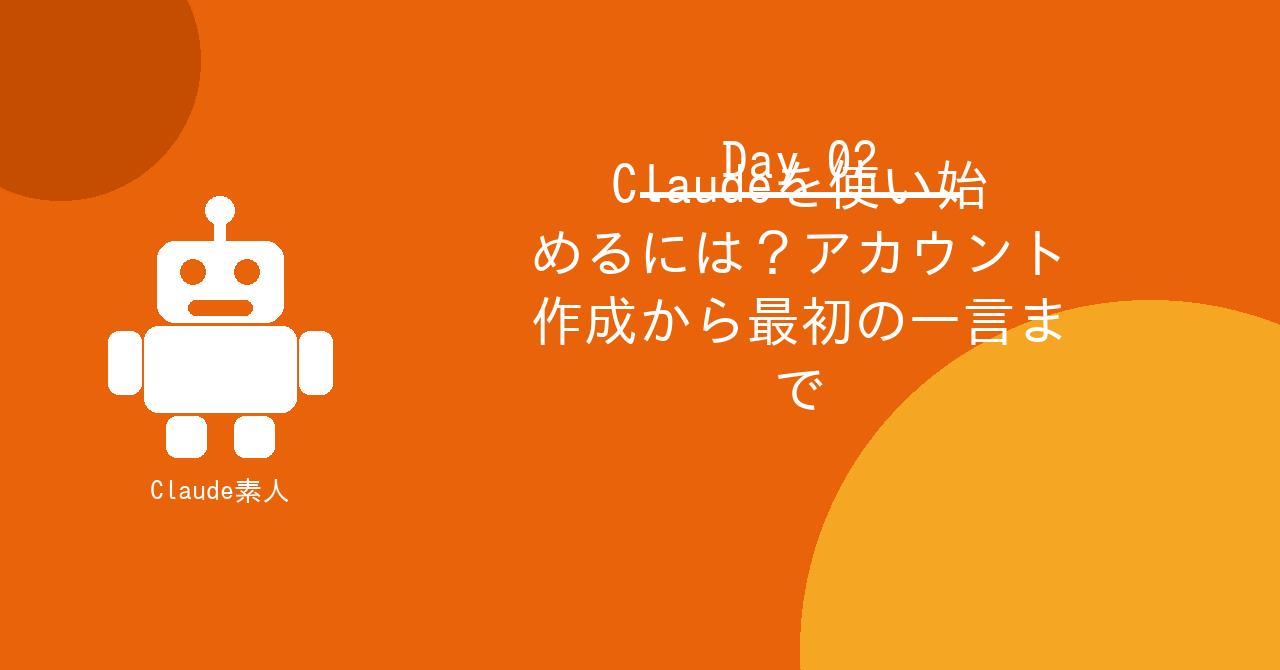
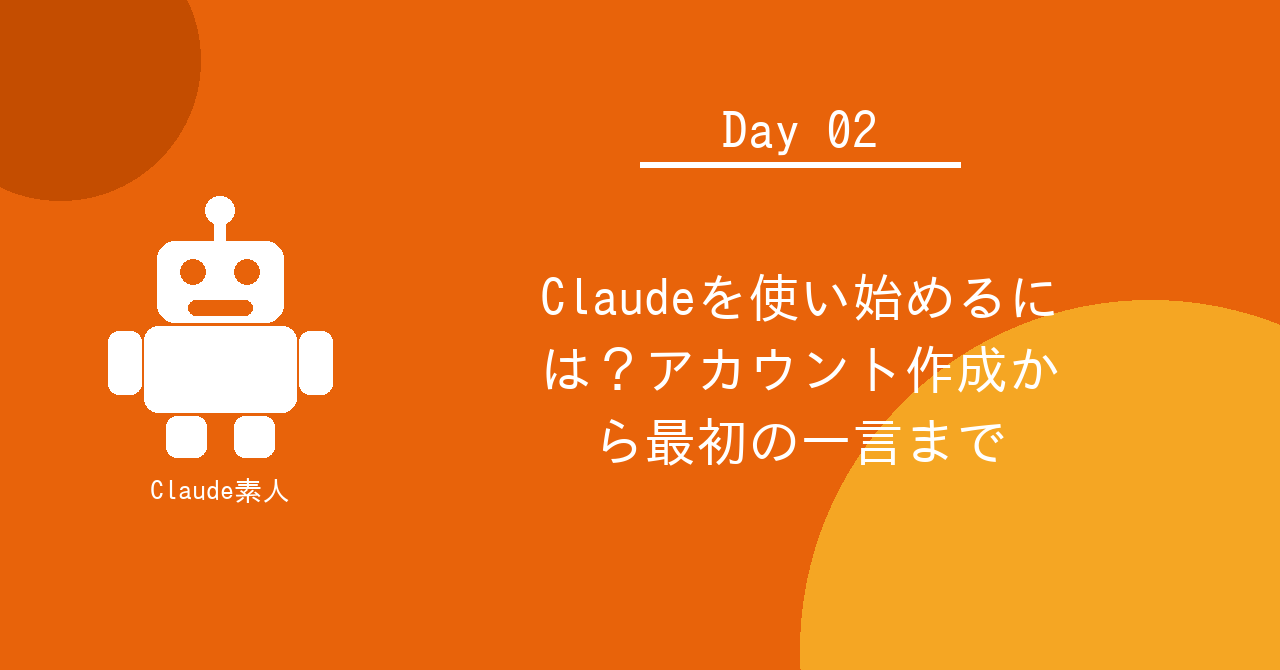
Fix thumbnail text overlap: use pixel-width wrapping and adjust layout
- _draw_wrapped_text: measure actual pixel width via textbbox instead of char count
- Move title text area center to y=405 to avoid overlapping Day label
- Lower Day label to y=130 and underline to y=162 for consistent spacing

https://claude.ai/code/session_01MfMKmrmzyeXBYuhRjDMfcJ

Changed region(s): [[0.4062, 0.1493, 0.8438, 0.597], [0.4688, 0.6269, 0.625, 0.6866], [0.6562, 0.6269, 0.7812, 0.6866]]

diff --git a/generate_thumbnail.py b/generate_thumbnail.py
@@ -50,16 +50,16 @@ def create_thumbnail(day: int, title: str, output_path: str):
     # --- Day番号（右エリア上部） ---
     font_day = _get_font(52, bold=True)
     day_text = f"Day {day:02d}"
-    draw.text((800, 160), day_text, font=font_day,
+    draw.text((800, 130), day_text, font=font_day,
               fill=COLOR_WHITE, anchor="mm")
 
     # Day番号の下にアンダーライン
-    draw.rectangle([(640, 192), (960, 197)], fill=COLOR_WHITE)
+    draw.rectangle([(640, 162), (960, 167)], fill=COLOR_WHITE)
 
-    # --- タイトル（右エリア中央） ---
-    font_title = _get_font(54, bold=True)
+    # --- タイトル（右エリア中央、Day番号と重ならない y=190〜620 の中央） ---
+    font_title = _get_font(52, bold=True)
     _draw_wrapped_text(draw, title, font_title, COLOR_WHITE,
-                       x=800, y=320, max_width=580, line_height=68)
+                       x=800, y=405, max_width=560, line_height=72)
 
     # --- 保存 ---
     Path(output_path).parent.mkdir(parents=True, exist_ok=True)
@@ -167,15 +167,19 @@ def _get_font(size: int, bold: bool = False):
 
 
 def _draw_wrapped_text(draw, text, font, color, x, y, max_width, line_height):
-    """テキストを折り返して描画する"""
-    # 文字数ベースで折り返し（日本語対応）
-    chars_per_line = max(1, max_width // (font.size if hasattr(font, 'size') else 40))
+    """テキストを実際のピクセル幅で計測しながら折り返して描画する"""
     lines = []
-    while len(text) > chars_per_line:
-        lines.append(text[:chars_per_line])
-        text = text[chars_per_line:]
-    if text:
-        lines.append(text)
+    current = ""
+    for char in text:
+        test = current + char
+        bbox = draw.textbbox((0, 0), test, font=font)
+        if bbox[2] - bbox[0] > max_width and current:
+            lines.append(current)
+            current = char
+        else:
+            current = test
+    if current:
+        lines.append(current)
 
     total_h = len(lines) * line_height
     start_y = y - total_h // 2